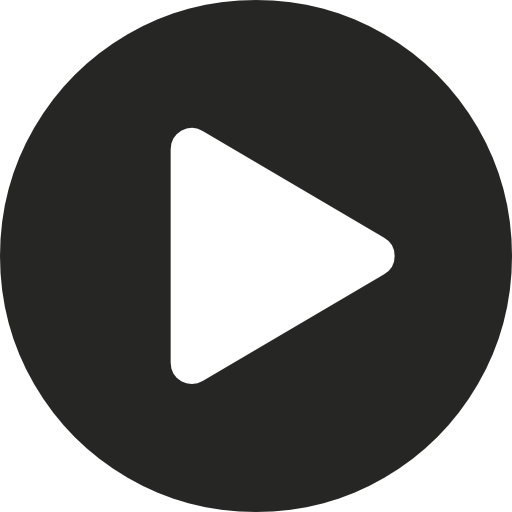
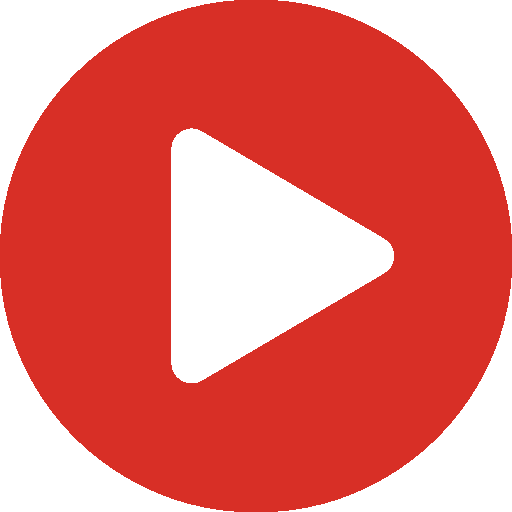
Estilo index

diff --git a/wwwroot/css/styleIndex.css b/wwwroot/css/styleIndex.css
@@ -2,25 +2,43 @@ body {
     background-color: #272727;
     color: white;
 }
+
+.wl{
+    background-color: #222222;
+    margin-right: 0px;
+    margin-left: 0px;
+    padding: 15px;
+    border-color: black;
+    box-shadow: -7px 8px 37px #171616;
+}
+
+.btn-danger {
+    background-color: #d82f26;
+}
+
 .subtitulos{
     background-color: black;
     border-top-right-radius: 10px;
     font-family: Impact, Haettenschweiler, 'Arial Narrow Bold', sans-serif;
-    border-left-color: orangered;
+    border-left-color:#d82f26;
     padding: 10px;
     color: white;
     border-left-style: solid;
     border-left-width: 10px;
+    margin-bottom: 0px;
+
 }
 .subtitulos2{
-    background-color: black;
+    background-color: #d82f26;
     border-top-right-radius: 10px;
     font-family: Impact, Haettenschweiler, 'Arial Narrow Bold', sans-serif;
     padding: 10px;
+    text-align: center;
     color: white;
     border-left-style: solid;
     border-left-width: 10px;
-    border-left-color: crimson;
+    border-left-color: #792a2a;
+    margin-bottom: 0px;
 }
 .imagen{
     height: 270px;
@@ -95,4 +113,8 @@ h5{
 }
 .imgProm{
     margin-bottom: 10px;
+}
+
+hr {
+    border-top: 1px solid #222222;
 }
